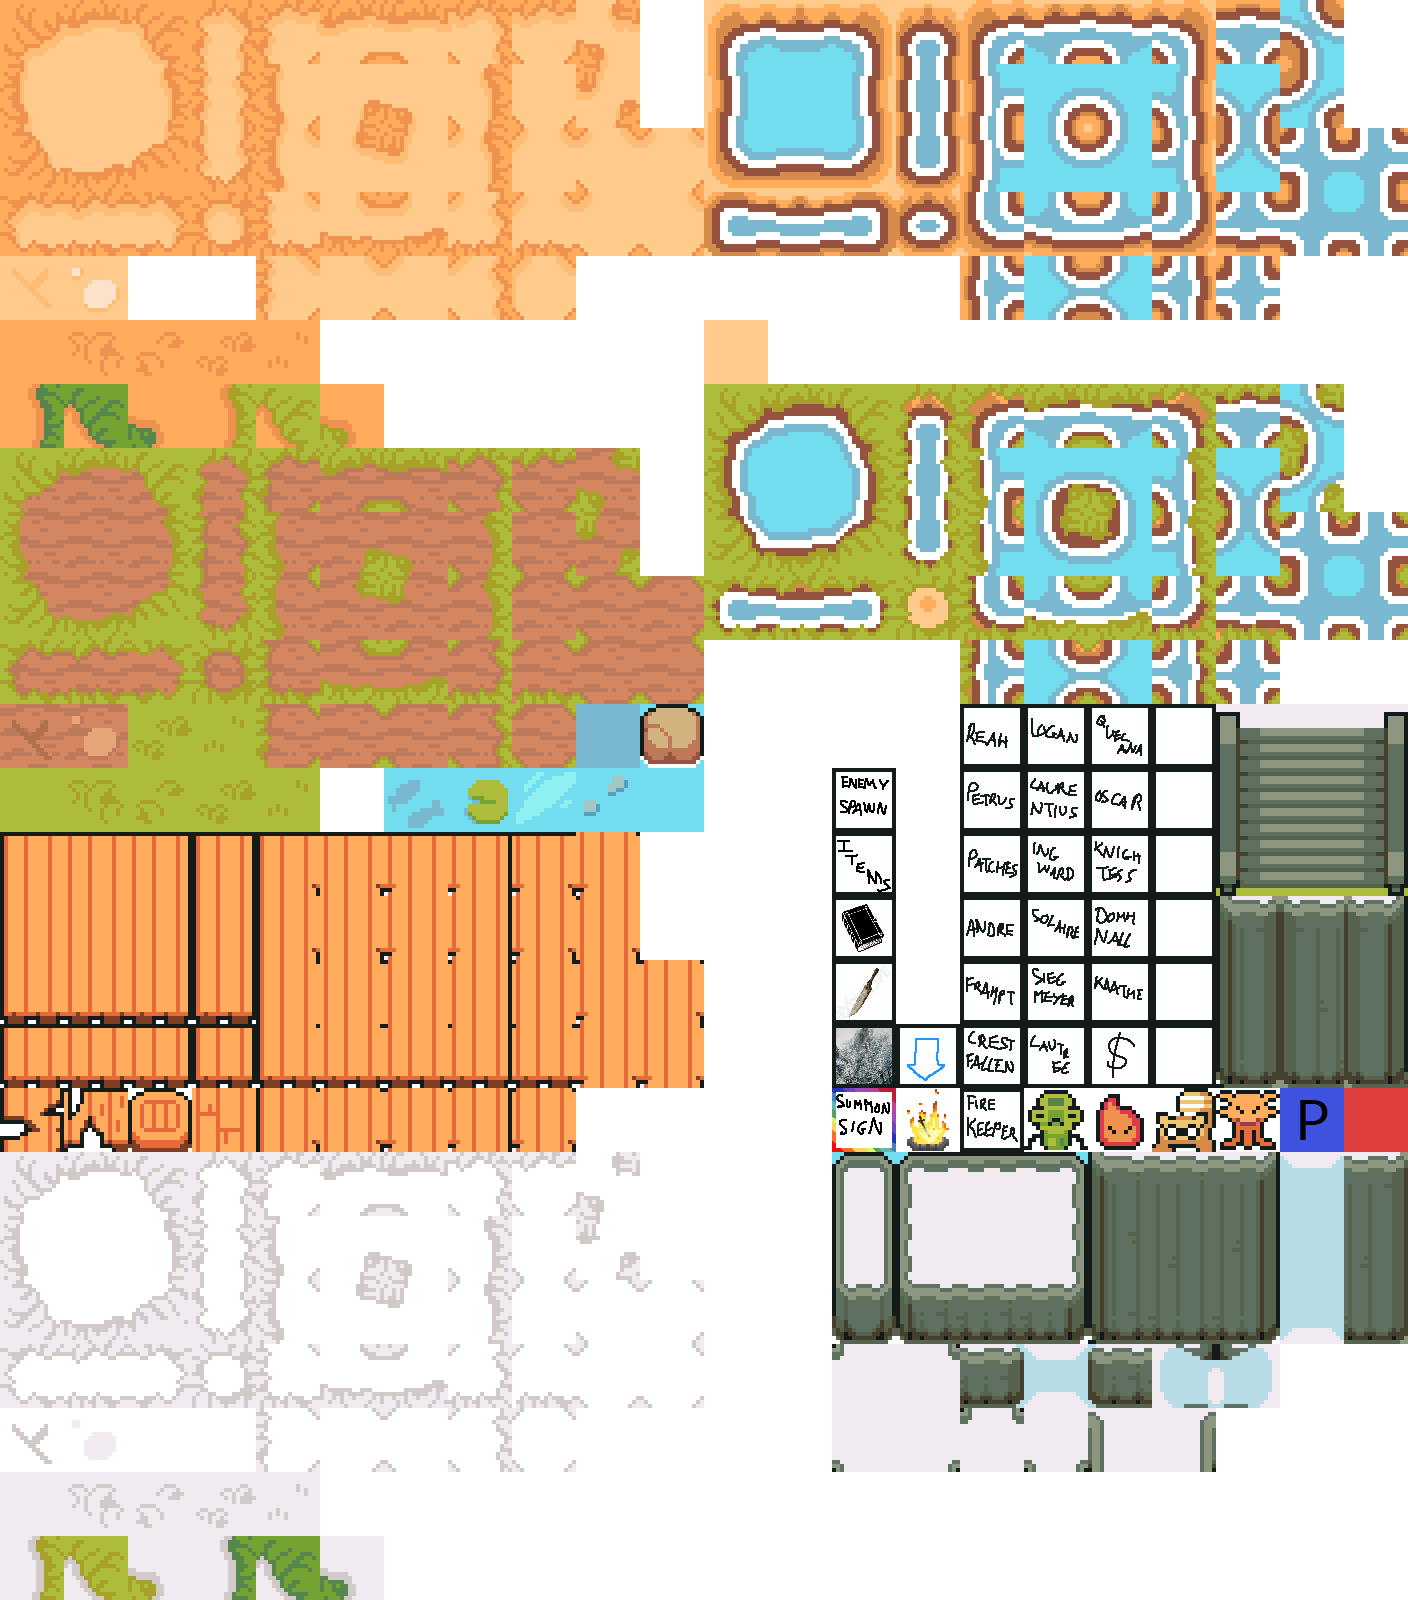
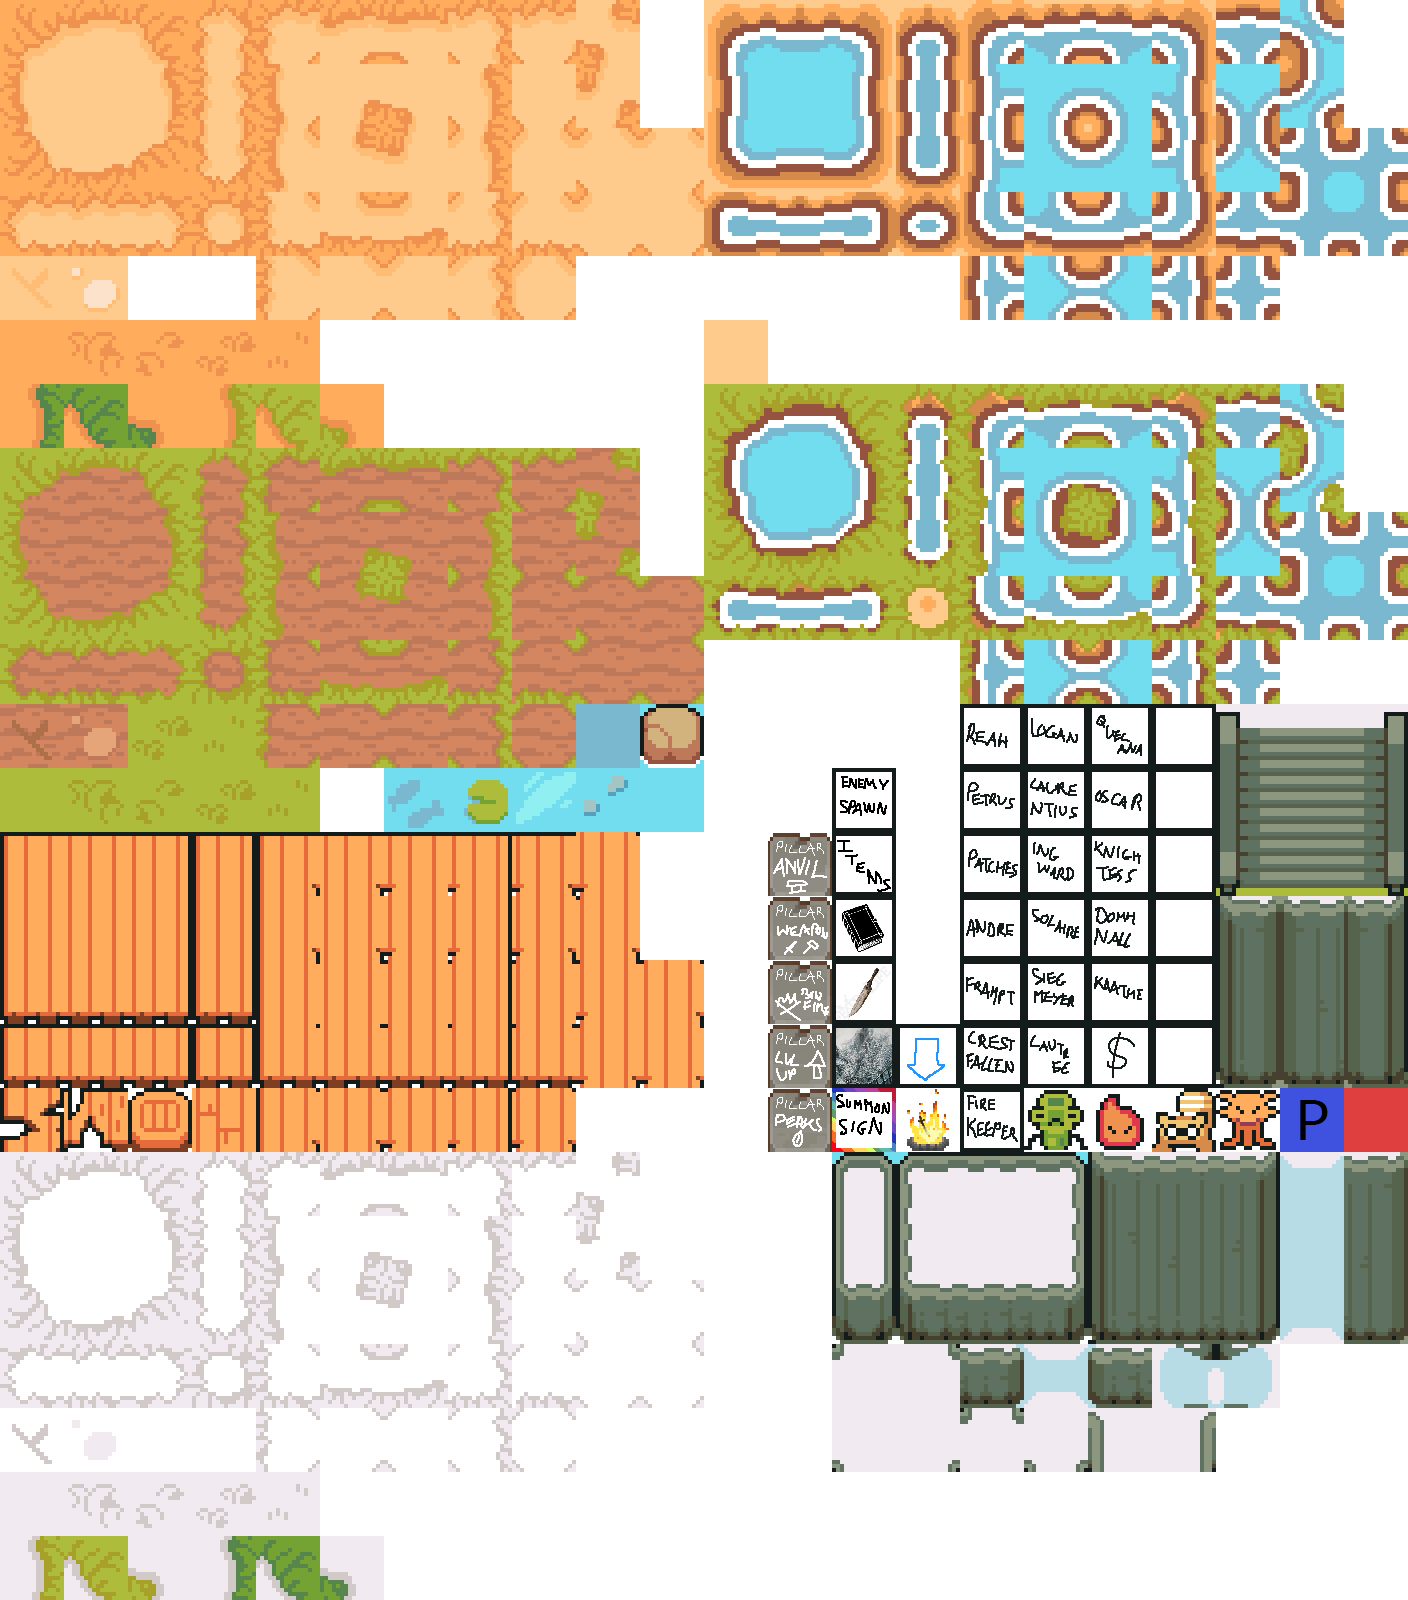
Added base for interactable objects

Changed region(s): [[0.5312, 0.5, 0.5938, 0.7188]]

diff --git a/assets/tiled/old/kingseeker_objects.tsx b/assets/tiled/old/kingseeker_objects.tsx
@@ -1,67 +1,67 @@
 <?xml version="1.0" encoding="UTF-8"?>
-<tileset version="1.10" tiledversion="1.10.2" name="kingseeker_objects" tilewidth="128" tileheight="128" tilecount="21" columns="0">
+<tileset version="1.10" tiledversion="1.11.0" name="kingseeker_objects" tilewidth="128" tileheight="128" tilecount="21" columns="0">
  <grid orientation="orthogonal" width="1" height="1"/>
  <tile id="0">
-  <image width="128" height="128" source="../../Dropbox/Kingseeker/assets/graphics/objects/0.png"/>
+  <image source="../../graphics/objects/0.png" width="128" height="128"/>
  </tile>
  <tile id="1">
-  <image width="128" height="128" source="../../Dropbox/Kingseeker/assets/graphics/objects/01.png"/>
+  <image source="../../graphics/objects/01.png" width="128" height="128"/>
  </tile>
  <tile id="2">
-  <image width="128" height="128" source="../../Dropbox/Kingseeker/assets/graphics/objects/02.png"/>
+  <image source="../../graphics/objects/02.png" width="128" height="128"/>
  </tile>
  <tile id="3">
-  <image width="128" height="128" source="../../Dropbox/Kingseeker/assets/graphics/objects/03.png"/>
+  <image source="../../graphics/objects/03.png" width="128" height="128"/>
  </tile>
  <tile id="4">
-  <image width="128" height="128" source="../../Dropbox/Kingseeker/assets/graphics/objects/04.png"/>
+  <image source="../../graphics/objects/04.png" width="128" height="128"/>
  </tile>
  <tile id="5">
-  <image width="128" height="128" source="../../Dropbox/Kingseeker/assets/graphics/objects/05.png"/>
+  <image source="../../graphics/objects/05.png" width="128" height="128"/>
  </tile>
  <tile id="6">
-  <image width="128" height="128" source="../../Dropbox/Kingseeker/assets/graphics/objects/06.png"/>
+  <image source="../../graphics/objects/06.png" width="128" height="128"/>
  </tile>
  <tile id="7">
-  <image width="128" height="128" source="../../Dropbox/Kingseeker/assets/graphics/objects/07.png"/>
+  <image source="../../graphics/objects/07.png" width="128" height="128"/>
  </tile>
  <tile id="8">
-  <image width="128" height="128" source="../../Dropbox/Kingseeker/assets/graphics/objects/08.png"/>
+  <image source="../../graphics/objects/08.png" width="128" height="128"/>
  </tile>
  <tile id="9">
-  <image width="128" height="128" source="../../Dropbox/Kingseeker/assets/graphics/objects/09.png"/>
+  <image source="../../graphics/objects/09.png" width="128" height="128"/>
  </tile>
  <tile id="10">
-  <image width="128" height="128" source="../../Dropbox/Kingseeker/assets/graphics/objects/10.png"/>
+  <image source="../../graphics/objects/10.png" width="128" height="128"/>
  </tile>
  <tile id="11">
-  <image width="128" height="128" source="../../Dropbox/Kingseeker/assets/graphics/objects/11.png"/>
+  <image source="../../graphics/objects/11.png" width="128" height="128"/>
  </tile>
  <tile id="12">
-  <image width="64" height="128" source="../../Dropbox/Kingseeker/assets/graphics/objects/12.png"/>
+  <image source="../../graphics/objects/12.png" width="128" height="128"/>
  </tile>
  <tile id="13">
-  <image width="128" height="128" source="../../Dropbox/Kingseeker/assets/graphics/objects/13.png"/>
+  <image source="../../graphics/objects/13.png" width="128" height="128"/>
  </tile>
  <tile id="14">
-  <image width="128" height="128" source="../../Dropbox/Kingseeker/assets/graphics/objects/14.png"/>
+  <image source="../../graphics/objects/14.png" width="128" height="128"/>
  </tile>
  <tile id="15">
-  <image width="128" height="128" source="../../Dropbox/Kingseeker/assets/graphics/objects/15.png"/>
+  <image source="../../graphics/objects/15.png" width="128" height="128"/>
  </tile>
  <tile id="16">
-  <image width="128" height="128" source="../../Dropbox/Kingseeker/assets/graphics/objects/16.png"/>
+  <image source="../../graphics/objects/16.png" width="128" height="128"/>
  </tile>
  <tile id="17">
-  <image width="128" height="128" source="../../Dropbox/Kingseeker/assets/graphics/objects/17.png"/>
+  <image source="../../graphics/objects/17.png" width="64" height="128"/>
  </tile>
  <tile id="18">
-  <image width="64" height="128" source="../../Dropbox/Kingseeker/assets/graphics/objects/18.png"/>
+  <image source="../../graphics/objects/18.png" width="64" height="128"/>
  </tile>
  <tile id="19">
-  <image width="64" height="128" source="../../Dropbox/Kingseeker/assets/graphics/objects/19.png"/>
+  <image source="../../graphics/objects/19.png" width="64" height="128"/>
  </tile>
  <tile id="20">
-  <image width="128" height="128" source="../../Dropbox/Kingseeker/assets/graphics/objects/20.png"/>
+  <image source="../../graphics/objects/20.png" width="64" height="128"/>
  </tile>
 </tileset>

diff --git a/assets/tiled/old/kingseeker_base_floor.tsx b/assets/tiled/old/kingseeker_base_floor.tsx
@@ -1,6 +1,6 @@
 <?xml version="1.0" encoding="UTF-8"?>
-<tileset version="1.10" tiledversion="1.10.2" name="kingseeker_base_floor" tilewidth="64" tileheight="64" tilecount="550" columns="22">
- <image source="../../Dropbox/Kingseeker/assets/graphics/tilemap/Floor.png" width="1408" height="1600"/>
+<tileset version="1.10" tiledversion="1.11.0" name="kingseeker_base_floor" tilewidth="64" tileheight="64" tilecount="550" columns="22">
+ <image source="../../graphics/tilemap/Floor.png" width="1408" height="1600"/>
  <tile id="244" probability="0.5"/>
  <tile id="245" probability="0.5"/>
  <tile id="252" probability="0.15"/>

diff --git a/assets/tiled/old/Extras.tsx b/assets/tiled/old/Extras.tsx
@@ -1,4 +1,4 @@
 <?xml version="1.0" encoding="UTF-8"?>
-<tileset version="1.10" tiledversion="1.10.2" name="Extras" tilewidth="64" tileheight="64" tilecount="80" columns="16">
- <image source="../../Dropbox/Kingseeker/assets/graphics/tilemap/details.png" width="1024" height="320"/>
+<tileset version="1.10" tiledversion="1.11.0" name="Extras" tilewidth="64" tileheight="64" tilecount="80" columns="16">
+ <image source="../../graphics/tilemap/details.png" width="1024" height="320"/>
 </tileset>

diff --git a/interactable_items.py b/interactable_items.py
@@ -513,7 +513,6 @@ class SummonSign(pygame.sprite.Sprite):
         return distance
     
     def summon_sign_ui_effect(self):
-        # todo
         self.interact_effect(self.covenant)
 
     def player_interact(self, player):
@@ -540,4 +539,104 @@ class SummonSign(pygame.sprite.Sprite):
         self.cooldowns()
     
     def sign_update(self, player):
+        self.player_interact(player)
+
+class PerkPillar(pygame.sprite.Sprite):
+    def __init__(self, pillar_type, pos, groups, interact_effect):
+        super().__init__(groups)
+        self.interact_effect = interact_effect
+        self.display_surface = pygame.display.get_surface()
+        self.frame_index = 0
+        self.animation_speed = 0.20
+        self.sprite_type = "pillar"
+        self.type = pillar_type
+
+        self.import_graphics("perk_pillar")
+        self.status = "idle"
+        self.image = self.animations[self.status][self.frame_index]
+
+        self.pos = pos
+        self.rect = self.image.get_rect(topleft = pos)
+        self.hitbox = self.rect.inflate(-30, -40)
+        self.use_radius = 150
+
+        self.prompt = Prompt()
+        self.item_popup = ItemPopup()
+
+        self.opening_sign = False
+        self.open_cooldown = 500
+        self.open_time = None
+
+        self.sign_sound = pygame.mixer.Sound("assets/audio/sfx/ghost.wav")
+        self.sign_sound.set_volume(0.25)
+    
+    def import_graphics(self, name):
+        self.animations = {
+            "idle": [],
+            "active": [],
+            "activating": [],
+        }
+        main_path = f"assets/graphics/interactable_entities/{name}/"
+        for animation in self.animations.keys():
+            full_path = main_path + animation
+            self.animations[animation] = import_folder(full_path, True, (65, 165))
+
+    def animate(self):
+        animation = self.animations[self.status]
+        
+        self.frame_index += self.animation_speed
+        if self.frame_index  >= len(animation):
+            # Keep open after opening animation plays
+            if self.status == "activating":
+                self.status = "active"
+                self.pillar_ui_effect()
+                self.frame_index = len(animation) - 1
+            else:
+                self.frame_index = 0
+        else:
+            self.display_surface.blit(self.image, self.rect)
+
+        self.image = animation[int(self.frame_index)]
+
+    def get_player_dist(self, player):
+        floor_item_vector = pygame.math.Vector2(self.rect.center)
+        player_vector = pygame.math.Vector2(player.rect.center)
+
+        distance = (player_vector - floor_item_vector).magnitude()
+
+        return distance
+    
+    def pillar_ui_effect(self):
+        self.interact_effect(self.type)
+
+    def player_interact(self, player):
+        player_distance = self.get_player_dist(player)
+        if player_distance <= self.use_radius and self.status == "idle":
+            match self.type:
+                case "perks": display_string = "View Perks of Humanity"
+                case "levels": display_string = "Strengthen Attributes"
+                case "bonfire": display_string = "Rest at Bonfire"
+                case "weapons": display_string = "Switch Weapons"
+                case "anvil": display_string = "Improve Weapons"
+            self.prompt.createPrompt("Summon Sign", "F", f"{display_string}")
+
+            if not self.opening_sign:
+                keys = pygame.key.get_pressed()
+
+                if keys[pygame.K_f]:
+                    self.sign_sound.play()
+                    self.status = "activating"
+
+    def cooldowns(self):
+        current_time = pygame.time.get_ticks()
+
+        if self.opening_sign:
+            if current_time - self.open_time >= self.open_cooldown:
+                self.opening_sign = False
+    
+    def update(self):
+        self.animate()
+        self.cooldowns()
+    
+    def pillar_update(self, player):
         self.player_interact(player)

diff --git a/level.py b/level.py
@@ -23,6 +23,7 @@ from bloodstain import Bloodstain
 from weapon import Hurtboxes
 from npc import NPC
 from interactable_items import SummonSign
+from interactable_items import PerkPillar
 from popups import BoonsMenu
 
 class Level:
@@ -311,6 +312,13 @@ class Level:
                                     unique_id = transition_ids[0]
                                     transition_ids.pop(0)
                                 NPC(npc_id, (x, y), [self.visible_sprites, self.interactable_sprites, self.obstacle_sprites], self.chamber_cleared, self.blit_reward_icon, self.map_id, effect, reward, unique_id, rotate_val)
+                            elif column in pillar_list:
+                                if column == "386": pillar_type = "perks"
+                                elif column == "364": pillar_type = "levels"
+                                elif column == "342": pillar_type = "bonfire"
+                                elif column == "320": pillar_type = "weapons"
+                                elif column == "298": pillar_type = "anvil"
+                                PerkPillar(pillar_type, (x, y), [self.visible_sprites, self.interactable_sprites, self.obstacle_sprites], self.trigger_pillar_effect)
                             elif column == "387":
                                 # covenant_sign = choice(covenants) # todo: set to random
                                 self.reward_pos = (x, y)
@@ -544,6 +552,11 @@ class Level:
     # def activated_lever_effect(self, id, pos):
     #     # todo: do an effect depending on the lever id
     #     print("Lever pulled!")
+
+    def trigger_pillar_effect(self): # todo
+        self.player.resting = True
+        self.player.any_interface_open = True
+        print("Perk pillar activated!")
     
     def summon_sign_effect(self, covenant):
         self.player.resting = True
@@ -691,6 +704,7 @@ class Level:
         self.visible_sprites.npc_update(self.player, self.chamber_cleared)
         self.visible_sprites.bonfire_update(self.player)
         self.visible_sprites.sign_update(self.player)
+        self.visible_sprites.pillar_update(self.player)
 
     def run(self):
         self.visible_sprites.custom_draw(self.player)
@@ -795,6 +809,11 @@ class YSortCameraGroup(pygame.sprite.Group):
         sign_sprites = [sprite for sprite in self.sprites() if hasattr(sprite, "sprite_type") and sprite.sprite_type == "summon_sign"]
         for sign in sign_sprites:
             sign.sign_update(player)
+    
+    def pillar_update(self, player):
+        pillar_sprites = [sprite for sprite in self.sprites() if hasattr(sprite, "sprite_type") and sprite.sprite_type == "pillar"]
+        for pillar in pillar_sprites:
+            pillar.pillar_update(player)
 
 class ScreenCameraGroup(pygame.sprite.Group):
     def __init__(self, map_id, region):

diff --git a/settings.py b/settings.py
@@ -395,6 +395,7 @@ CANNOT_KINDLE = "Cannot kindle flame further."
 # misc
 covenants = ["warriors_of_sunlight", "chaos_servants", "darkwraiths", "blades_of_the_darkmoon", "velka"]
 npc_list = ["389", "367", "345", "323", "301", "279", "257", "368", "346", "324", "302", "280", "258", "369", "347", "325", "303", "281", "259", "366", "344"]
+pillar_list = ["386", "364", "342", "320", "298"]
 boon_summons = ["sunlight_summon", "chaos_summon", "darkwraith_summon", "darkmoon_summon", "velkas_tome"]
 resources_names = ["soul_remnants", "humanity sprites", "souvenirs of reprisal", "sunlight medals", "titanite shards", "titanite chunks", "titanite slabs", "demon titanite"]
 

diff --git a/gameinfo.py b/gameinfo.py
@@ -91,12 +91,12 @@ resource_details = {
 
 # Base attributes
 player_attributes = {
-    "Vigour": 1,
-    "Endurance": 1,,
-    "Strength": 1,
-    "Dexterity": 1,
-    "Intelligence": 1,
-    "Faith": 1,
+    "VITALITY": 1,
+    "ENDURANCE": 1,
+    "STRENGTH": 1,
+    "DEXTERITY": 1,
+    "INTELLIGENCE": 1,
+    "FAITH": 1,
 }
 
 # Permanent Unlocks
